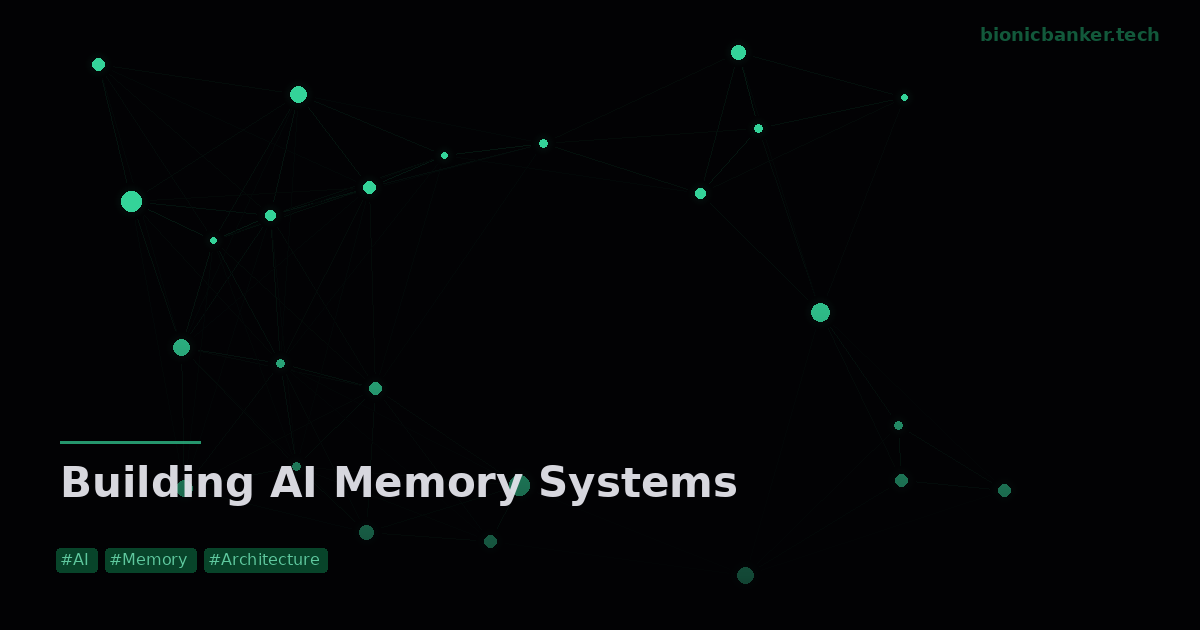
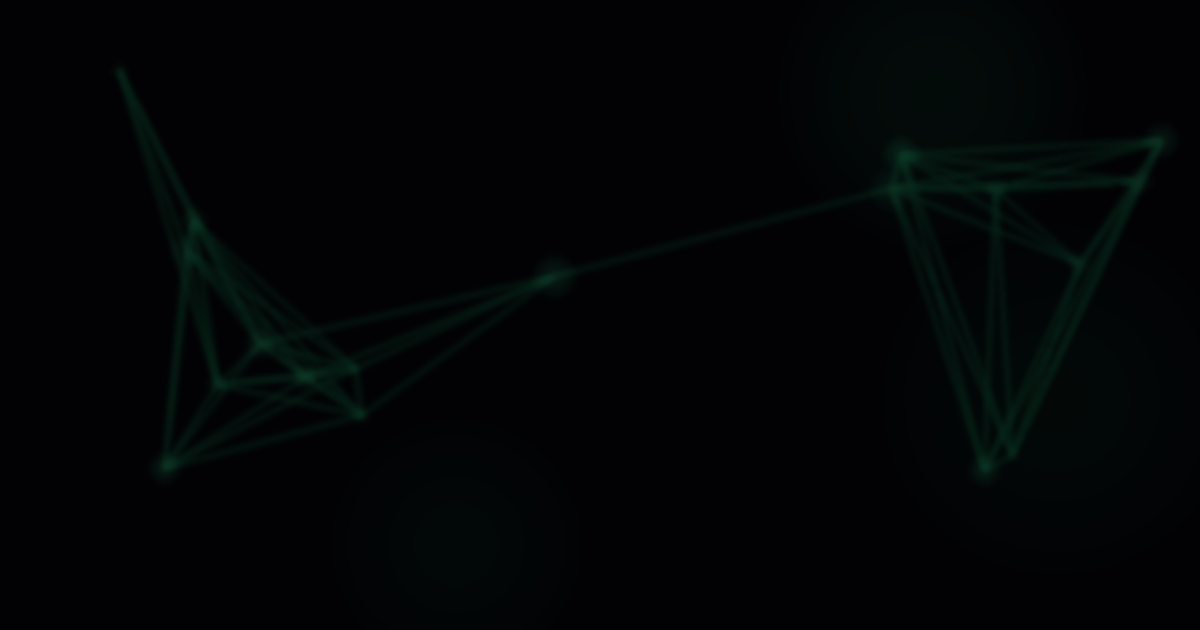
Regenerate all hero images v2: atmospheric, no text, matches Vanta aesthetic
Replaced cartoonish v1 images (big titles, matrix rain, circuit boards) with
subtle atmospheric patterns: soft glowing orbs, faint node connections,
blurred gradient waves, minimal grid points. No text overlay — images are
pure ambient backgrounds. Gaussian blur applied for smooth feel.

diff --git a/generate_images_v2.py b/generate_images_v2.py
@@ -1,0 +1,199 @@
+#!/usr/bin/env python3
+"""Generate v2 hero images — subtle, atmospheric, no text. Matches Vanta 3D aesthetic."""
+
+import math
+import random
+import hashlib
+import os
+from PIL import Image, ImageDraw, ImageFilter
+
+# Site palette
+C = {
+    'bg': (2, 2, 4),
+    'g1': (13, 122, 74),    # dark green
+    'g2': (31, 160, 104),   # accent
+    'g3': (52, 211, 153),   # bright
+    'g4': (110, 231, 183),  # light
+    'white': (228, 228, 236),
+}
+
+WIDTH, HEIGHT = 1200, 630
+
+ARTICLES = [
+    {"slug": "aml-engine", "template": "nodes"},
+    {"slug": "nexus-agent", "template": "nodes"},
+    {"slug": "syos", "template": "drift"},
+    {"slug": "syos-falsification", "template": "grid_glow"},
+    {"slug": "anchor-problem", "template": "drift"},
+    {"slug": "zkp-explained", "template": "grid_glow"},
+    {"slug": "tornado-cash", "template": "nodes"},
+    {"slug": "defi", "template": "drift"},
+    {"slug": "aave", "template": "nodes"},
+    {"slug": "uniswap", "template": "grid_glow"},
+    {"slug": "paypal", "template": "drift"},
+    {"slug": "extreme-fear", "template": "orbs"},
+    {"slug": "blockchain-trends", "template": "grid_glow"},
+    {"slug": "how-to-start-crypto", "template": "drift"},
+    {"slug": "gen-z-finance", "template": "orbs"},
+    {"slug": "fintech", "template": "nodes"},
+    {"slug": "physics-of-ai", "template": "orbs"},
+    {"slug": "ai-memory-system", "template": "nodes"},
+    {"slug": "kill-agent", "template": "grid_glow"},
+    {"slug": "memory-case-study", "template": "drift"},
+    {"slug": "folder-agent", "template": "nodes"},
+    {"slug": "folder-agent-part2", "template": "nodes"},
+    {"slug": "the-anchor", "template": "orbs"},
+    {"slug": "agent-evolution", "template": "drift"},
+    {"slug": "agent-replacement", "template": "orbs"},
+    {"slug": "claude-proxy-api", "template": "nodes"},
+    {"slug": "roast-gallery", "template": "grid_glow"},
+    {"slug": "agent-architecture", "template": "nodes"},
+    {"slug": "aml-roaster", "template": "grid_glow"},
+]
+
+def seed(slug):
+    return int(hashlib.md5(slug.encode()).hexdigest()[:8], 16)
+
+def draw_soft_circle(img, cx, cy, radius, color, alpha_max=60):
+    """Draw a soft radial gradient circle (glow orb)."""
+    overlay = Image.new('RGBA', img.size, (0,0,0,0))
+    draw = ImageDraw.Draw(overlay)
+    for r in range(radius, 0, -2):
+        a = int(alpha_max * (1 - (r / radius) ** 1.5))
+        if a > 0:
+            draw.ellipse([cx-r, cy-r, cx+r, cy+r], fill=color + (a,))
+    img.paste(Image.alpha_composite(img, overlay))
+
+def template_nodes(img, rng):
+    """Subtle connected nodes — like Vanta NET but static and blurred."""
+    draw = ImageDraw.Draw(img, 'RGBA')
+    nodes = [(rng.randint(30, WIDTH-30), rng.randint(30, HEIGHT-30)) for _ in range(18)]
+    
+    # Draw subtle connections
+    for i, (x1, y1) in enumerate(nodes):
+        for j, (x2, y2) in enumerate(nodes):
+            if i < j:
+                dist = math.sqrt((x2-x1)**2 + (y2-y1)**2)
+                if dist < 350:
+                    a = int(max(5, 25 - dist * 0.07))
+                    draw.line([(x1, y1), (x2, y2)], fill=(*C['g1'], a), width=1)
+    
+    # Draw node glows
+    for x, y in nodes:
+        r = rng.randint(8, 25)
+        draw_soft_circle(img, x, y, r, C['g2'], alpha_max=rng.randint(20, 45))
+    
+    # Add 2-3 large ambient glows
+    for _ in range(rng.randint(2, 3)):
+        gx = rng.randint(100, WIDTH-100)
+        gy = rng.randint(50, HEIGHT-50)
+        draw_soft_circle(img, gx, gy, rng.randint(120, 250), C['g1'], alpha_max=rng.randint(12, 25))
+
+def template_drift(img, rng):
+    """Flowing gradient waves — atmospheric, dreamy."""
+    draw = ImageDraw.Draw(img, 'RGBA')
+    
+    # Large background orbs
+    for _ in range(4):
+        gx = rng.randint(-100, WIDTH+100)
+        gy = rng.randint(-50, HEIGHT+50)
+        draw_soft_circle(img, gx, gy, rng.randint(150, 350), C['g1'], alpha_max=rng.randint(15, 30))
+    
+    # Flowing sine curves
+    for wave in range(rng.randint(3, 5)):
+        freq = rng.uniform(0.003, 0.012)
+        amp = rng.randint(40, 120)
+        offset_y = rng.randint(50, HEIGHT-50)
+        phase = rng.uniform(0, math.pi * 2)
+        pts = []
+        for x in range(0, WIDTH, 2):
+            y = offset_y + math.sin(x * freq + phase) * amp
+            pts.append((x, int(y)))
+        if len(pts) > 1:
+            a = rng.randint(12, 30)
+            draw.line(pts, fill=(*C['g2'], a), width=rng.randint(1, 2))
+    
+    # Tiny scattered dots
+    for _ in range(rng.randint(15, 30)):
+        x, y = rng.randint(0, WIDTH), rng.randint(0, HEIGHT)
+        r = rng.randint(1, 3)
+        a = rng.randint(20, 60)
+        draw.ellipse([x-r, y-r, x+r, y+r], fill=(*C['g3'], a))
+
+def template_grid_glow(img, rng):
+    """Subtle grid with glowing intersection points."""
+    draw = ImageDraw.Draw(img, 'RGBA')
+    cell = rng.choice([50, 60, 70])
+    
+    # Very faint grid lines
+    for x in range(0, WIDTH, cell):
+        draw.line([(x, 0), (x, HEIGHT)], fill=(*C['g1'], 10), width=1)
+    for y in range(0, HEIGHT, cell):
+        draw.line([(0, y), (WIDTH, y)], fill=(*C['g1'], 10), width=1)
+    
+    # Glowing points at some intersections
+    for _ in range(rng.randint(8, 18)):
+        gx = rng.randint(0, WIDTH // cell) * cell
+        gy = rng.randint(0, HEIGHT // cell) * cell
+        r = rng.randint(10, 30)
+        draw_soft_circle(img, gx, gy, r, C['g2'], alpha_max=rng.randint(25, 50))
+    
+    # 1-2 large ambient orbs
+    for _ in range(rng.randint(1, 2)):
+        ox = rng.randint(100, WIDTH-100)
+        oy = rng.randint(50, HEIGHT-50)
+        draw_soft_circle(img, ox, oy, rng.randint(180, 300), C['g1'], alpha_max=rng.randint(12, 22))
+
+def template_orbs(img, rng):
+    """Pure atmospheric orbs — like the glow-orb background on the site."""
+    for _ in range(rng.randint(4, 7)):
+        ox = rng.randint(-100, WIDTH+100)
+        oy = rng.randint(-50, HEIGHT+50)
+        color = rng.choice([C['g1'], C['g2'], C['g3']])
+        r = rng.randint(80, 300)
+        a = rng.randint(10, 35)
+        draw_soft_circle(img, ox, oy, r, color, alpha_max=a)
+    
+    # Tiny sparkle dots
+    for _ in range(rng.randint(20, 40)):
+        x, y = rng.randint(0, WIDTH), rng.randint(0, HEIGHT)
+        r = rng.randint(1, 2)
+        a = rng.randint(30, 80)
+        draw = ImageDraw.Draw(img, 'RGBA')
+        draw.ellipse([x-r, y-r, x+r, y+r], fill=(*C['g3'], a))
+
+TEMPLATES = {
+    'nodes': template_nodes,
+    'drift': template_drift,
+    'grid_glow': template_grid_glow,
+    'orbs': template_orbs,
+}
+
+def generate(article, out_dir):
+    rng = random.Random(seed(article['slug']))
+    img = Image.new('RGBA', (WIDTH, HEIGHT), C['bg'] + (255,))
+    
+    # Apply template
+    TEMPLATES[article['template']](img, rng)
+    
+    # Apply gaussian blur for that smooth atmospheric feel
+    img = img.filter(ImageFilter.GaussianBlur(radius=3))
+    
+    # Convert to RGB
+    final = Image.new('RGB', (WIDTH, HEIGHT), C['bg'])
+    final.paste(img, mask=img.split()[3])
+    
+    path = os.path.join(out_dir, f"{article['slug']}-hero.png")
+    final.save(path, 'PNG', optimize=True)
+    return path
+
+def main():
+    out = os.path.expanduser("~/bionic-banker/blog-visuals/png")
+    os.makedirs(out, exist_ok=True)
+    for a in ARTICLES:
+        p = generate(a, out)
+        print(f"  {a['slug']}")
+    print(f"\nGenerated {len(ARTICLES)} atmospheric hero images")
+
+if __name__ == '__main__':
+    main()
